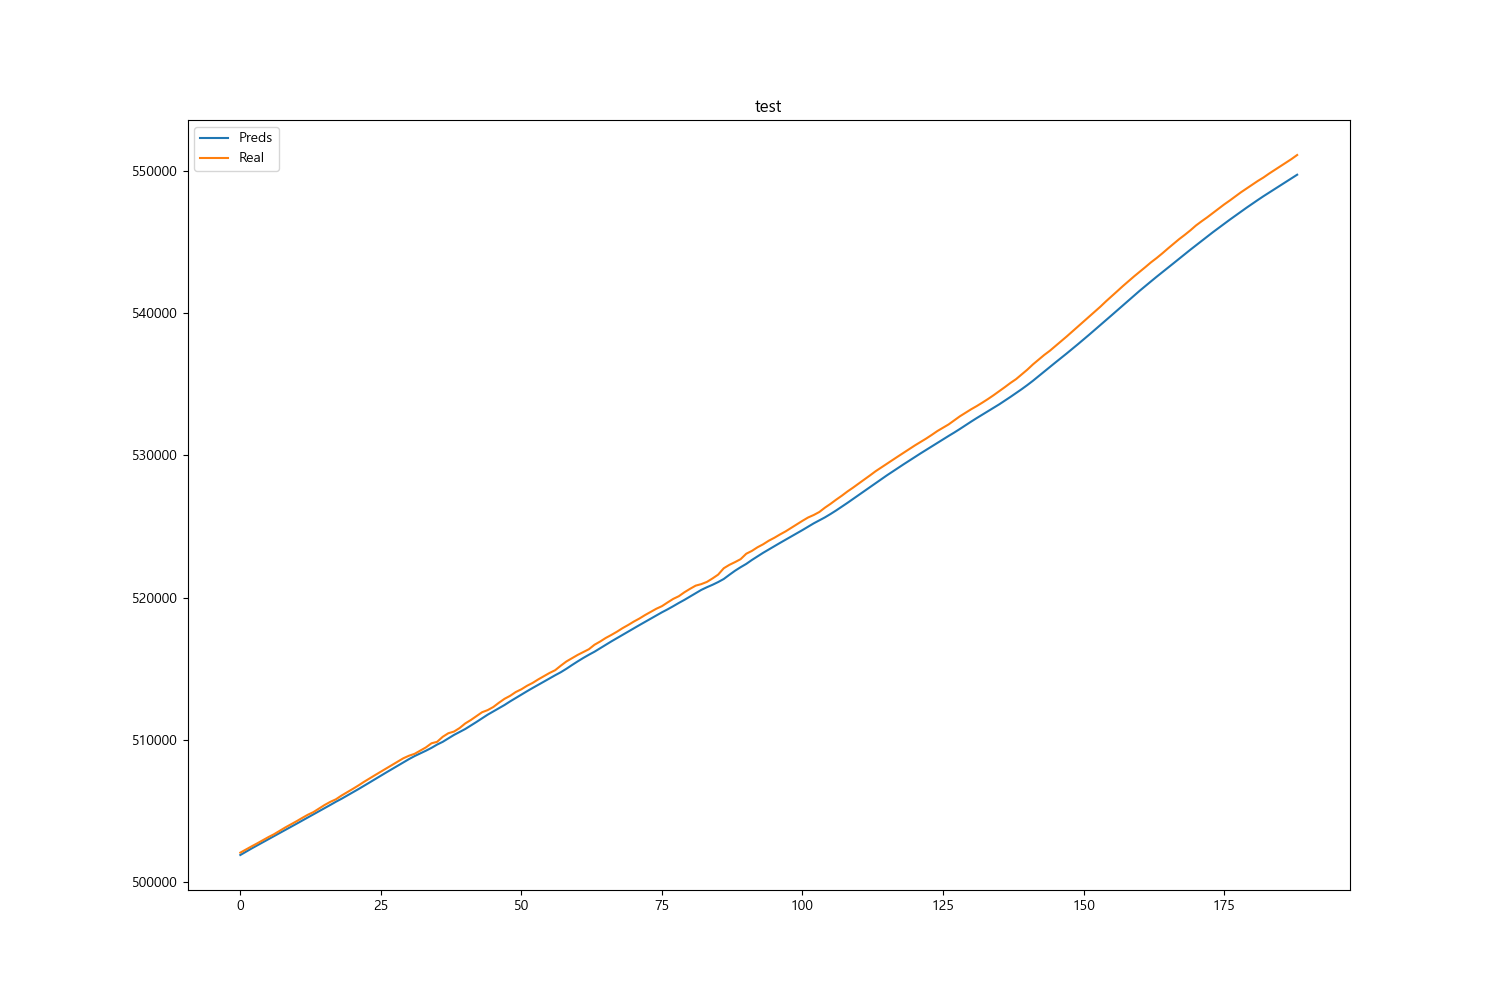
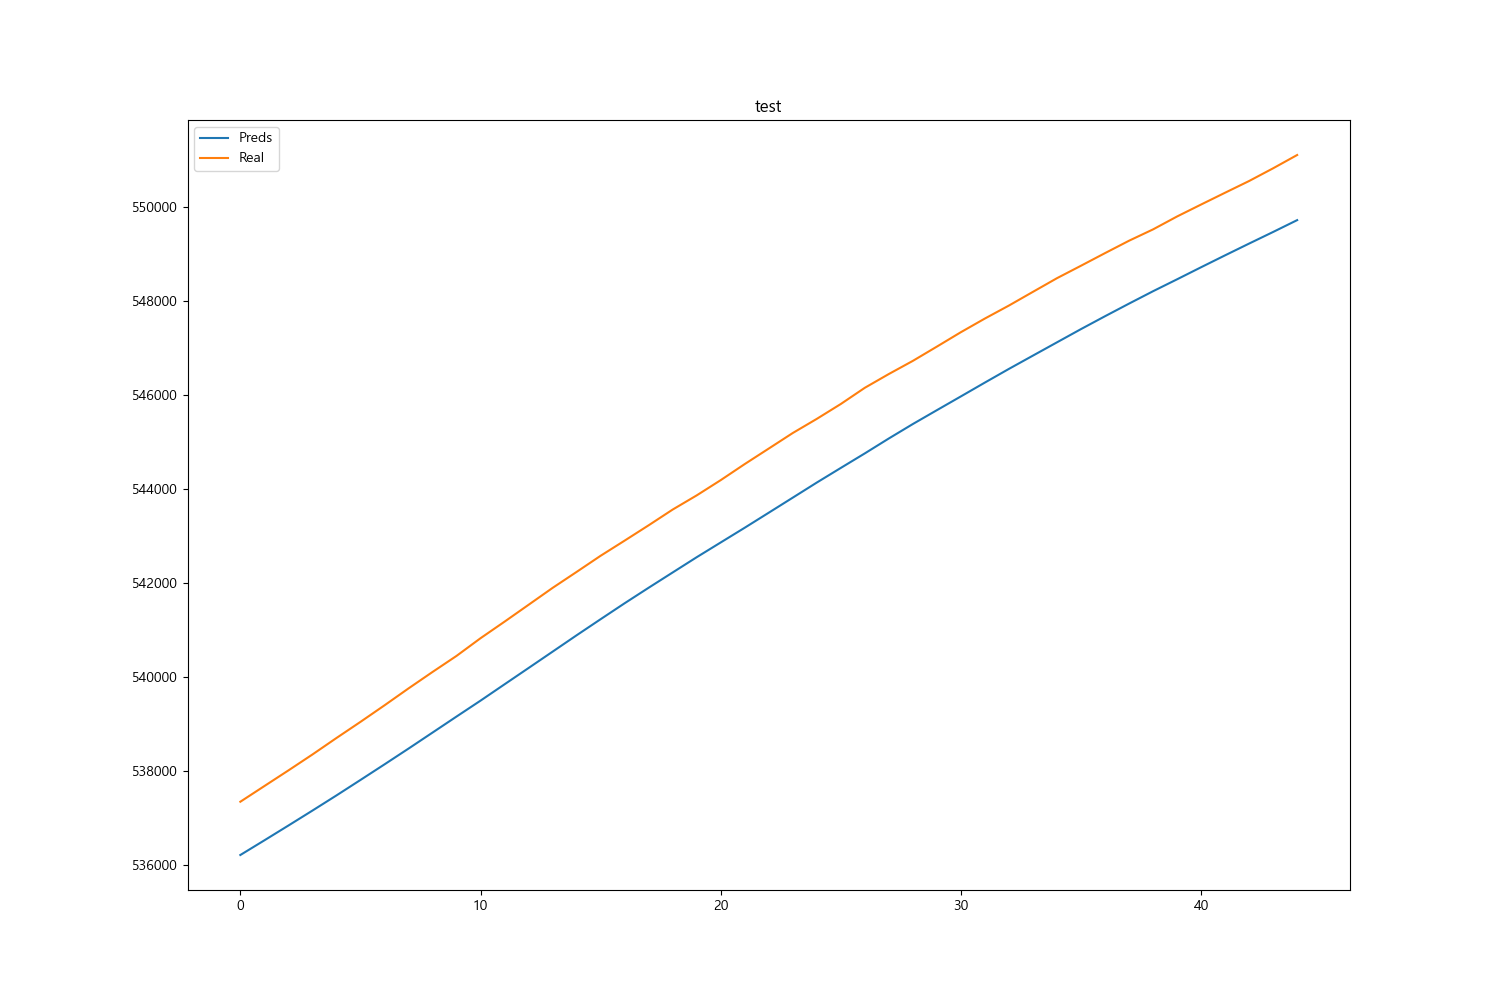
:construction: Done - denormalize - wth

diff --git a/share/Energy_pv/Run.py b/share/Energy_pv/Run.py
@@ -33,19 +33,21 @@ def resampleFreq(args, df) :
     resultDf[args.target_name] = scaler.fit_transform(resultDf[args.target_name].values.reshape(-1, 1))
     return resultDf, scaler
 
-def load_data(stock, look_back):
+def load_data(stock, args):
     data_raw = stock.values  # convert to numpy array
     data = []
 
     # create all possible sequences of length look_back
-    for index in range(len(data_raw) - look_back):
-        data.append(data_raw[index: index + look_back])
+    for index in range(len(data_raw) - args.look_back):
+        data.append(data_raw[index: index + args.look_back])
 
     data = np.array(data)
-    test_set_size = int(np.round(0.2 * data.shape[0]))  # 220
-    train_set_size = data.shape[0] - (test_set_size)  # 881
 
-    x_train = data[:train_set_size, :-1, :]  # (757, 27, 1) 이전 7일까지의 값을 사용하니까
+    # test_set_size = int(np.round(0.2 * data.shape[0]))
+    # train_set_size = data.shape[0] - (test_set_size)  # 881
+    train_set_size = args.train_set_size
+
+    x_train = data[:train_set_size, :-1, :]  #
     y_train = data[:train_set_size, -1, :]  # (757, 1)
 
     x_test = data[train_set_size:, :-1]  # (189, 27, 1) #그냥 반복하고 있는데, 실제로는 매번 예측한 값을 반복해서 더하도록 변경해야 함
@@ -103,6 +105,7 @@ def Predict( args,model, x_test, y_test, scaler ) :
     y_test_pred = scaler.inverse_transform(y_test_pred.detach().numpy())
     y_test = scaler.inverse_transform(y_test.detach().numpy())
 
+#save - denormalized result
     yDf = pd.DataFrame({"y_pred": y_test_pred[:, 0],
                         "y_test": y_test[:, 0]})
 
@@ -136,7 +139,7 @@ def main():
     df1D = pd.read_csv(args.path, parse_dates=[args.date_column], encoding='utf-8', )
     resultDf, scaler = resampleFreq(args, df1D)  # 일 단위 데이터로 변환 및 결측치 선형 보간
 
-    x_train, y_train, x_test, y_test = load_data(resultDf, args.look_back)  # step
+    x_train, y_train, x_test, y_test = load_data(resultDf, args)  # step
 
     if args.state == "train" :
 
@@ -149,7 +152,6 @@ def main():
         Visualize(y_train_pred, y_train, args.result_train, "train")
 
     elif args.state == "test" :
-        x_train, y_train, x_test, y_test = load_data(resultDf, args.look_back)
         model = torch.load(args.model_save)
         y_test_pred, y_test, mseScore, rmseScore, R2Score = Predict(args, model, x_test, y_test, scaler)
         Visualize(y_test_pred, y_test, args.result_pred, "test")
@@ -160,20 +162,24 @@ def main():
         r2L = []
         model = torch.load(args.model_save)
         for i in range(args.iternum) :
+            print(" ------ ", i," ------ ")
             y_test_pred, _, mseScore, rmseScore, R2Score = Predict(args, model, x_test, y_test, scaler)
             mseL.append(float(mseScore.detach().numpy()))
             rmseL.append(rmseScore)
             r2L.append(R2Score)
+            print(" ")
 
         scoreDf = pd.DataFrame({ "MSE" : mseL,
                                 "RMSE" : rmseL,
                                 "R2 Score": r2L })
 
 
+
+        print("   ")
         print("test ",args.iternum,"번에 대한 평균값 : " )
         print(scoreDf.describe().iloc[1])
 
-        print(scoreDf.describe())
+        # print(scoreDf.describe())
 
     else :
         # viewer
@@ -187,6 +193,8 @@ def main():
         print("         x_test.shape - ", x_test.shape)
 
         print("모델 구조")
+        model = torch.load(args.model_save)
+        print(model)
 
 
 

diff --git a/share/Energy_wth_f1score/MultivariateLSTM.py b/share/Energy_wth_f1score/MultivariateLSTM.py
@@ -1,0 +1,36 @@
+import sys
+import numpy as np
+from numpy import array
+import pandas as pd
+import matplotlib.pyplot as plt
+import math
+from sklearn.preprocessing import MinMaxScaler
+from sklearn.metrics import mean_squared_error
+import torch
+import torch.nn as nn
+from sklearn.metrics import r2_score
+
+# Here we define our model as a class
+class LSTM(nn.Module):
+    def __init__(self, input_dim, hidden_dim, num_layers, output_dim):
+        super(LSTM, self).__init__()
+        # Hidden dimensions
+        self.hidden_dim = hidden_dim
+
+        # Number of hidden layers
+        self.num_layers = num_layers
+
+        # Building your LSTM
+        self.lstm = nn.LSTM(input_dim, hidden_dim, num_layers, batch_first=True)
+
+        # Readout layer
+        self.fc = nn.Linear(hidden_dim, output_dim)
+
+    def forward(self, x):
+        h0 = torch.zeros(self.num_layers, x.size(0), self.hidden_dim).requires_grad_()
+        c0 = torch.zeros(self.num_layers, x.size(0), self.hidden_dim).requires_grad_()
+
+        out, (hn, cn) = self.lstm(x, (h0.detach(), c0.detach()))
+
+        out = self.fc(out[:, -1, :])
+        return out

diff --git a/share/Energy_pv/config.py b/share/Energy_pv/config.py
@@ -8,13 +8,15 @@ def lstm_parse(parser, arg_str=None):
                             date_column = 'updated',
                             freq = '1D',
                             target_name='power_value',
-                            look_back = 28,
+                            look_back = 29,
                             input_dim = 1,
                             hidden_dim = 128,
                             num_layers = 2,
                             output_dim = 1,
                             lr = 0.01,
                             num_epochs = 2000,
+
+                            train_set_size=900,
 
                             path = 'Energy_pv/data/power_value.csv',
                             model_save = 'Energy_pv/model/model_e2000.pt',

diff --git a/share/Energy_wth_f1score/config.py b/share/Energy_wth_f1score/config.py
@@ -22,11 +22,11 @@ def lstm_parse(parser, arg_str=None):
 
         train_set_size = 900,
 
-        path='Energy_wth/data/pv_weather.csv',
-        model_save='Energy_wth/model/model_e2000.pt',
-        pred_result='Energy_wth/output/lstm_predict.csv',
-        result_train='Energy_wth/output/lstm_train.png',
-        result_pred='Energy_wth/output/lstm_predict.png',
+        path='Energy_wth_f1score/data/pv_weather.csv',
+        model_save='Energy_wth_f1score/model/model_e2000.pt',
+        pred_result='Energy_wth_f1score/output/lstm_predict.csv',
+        result_train='Energy_wth_f1score/output/lstm_train.png',
+        result_pred='Energy_wth_f1score/output/lstm_predict.png',
     )  # True
 
 # python -m Final.Energy_pv.Train
